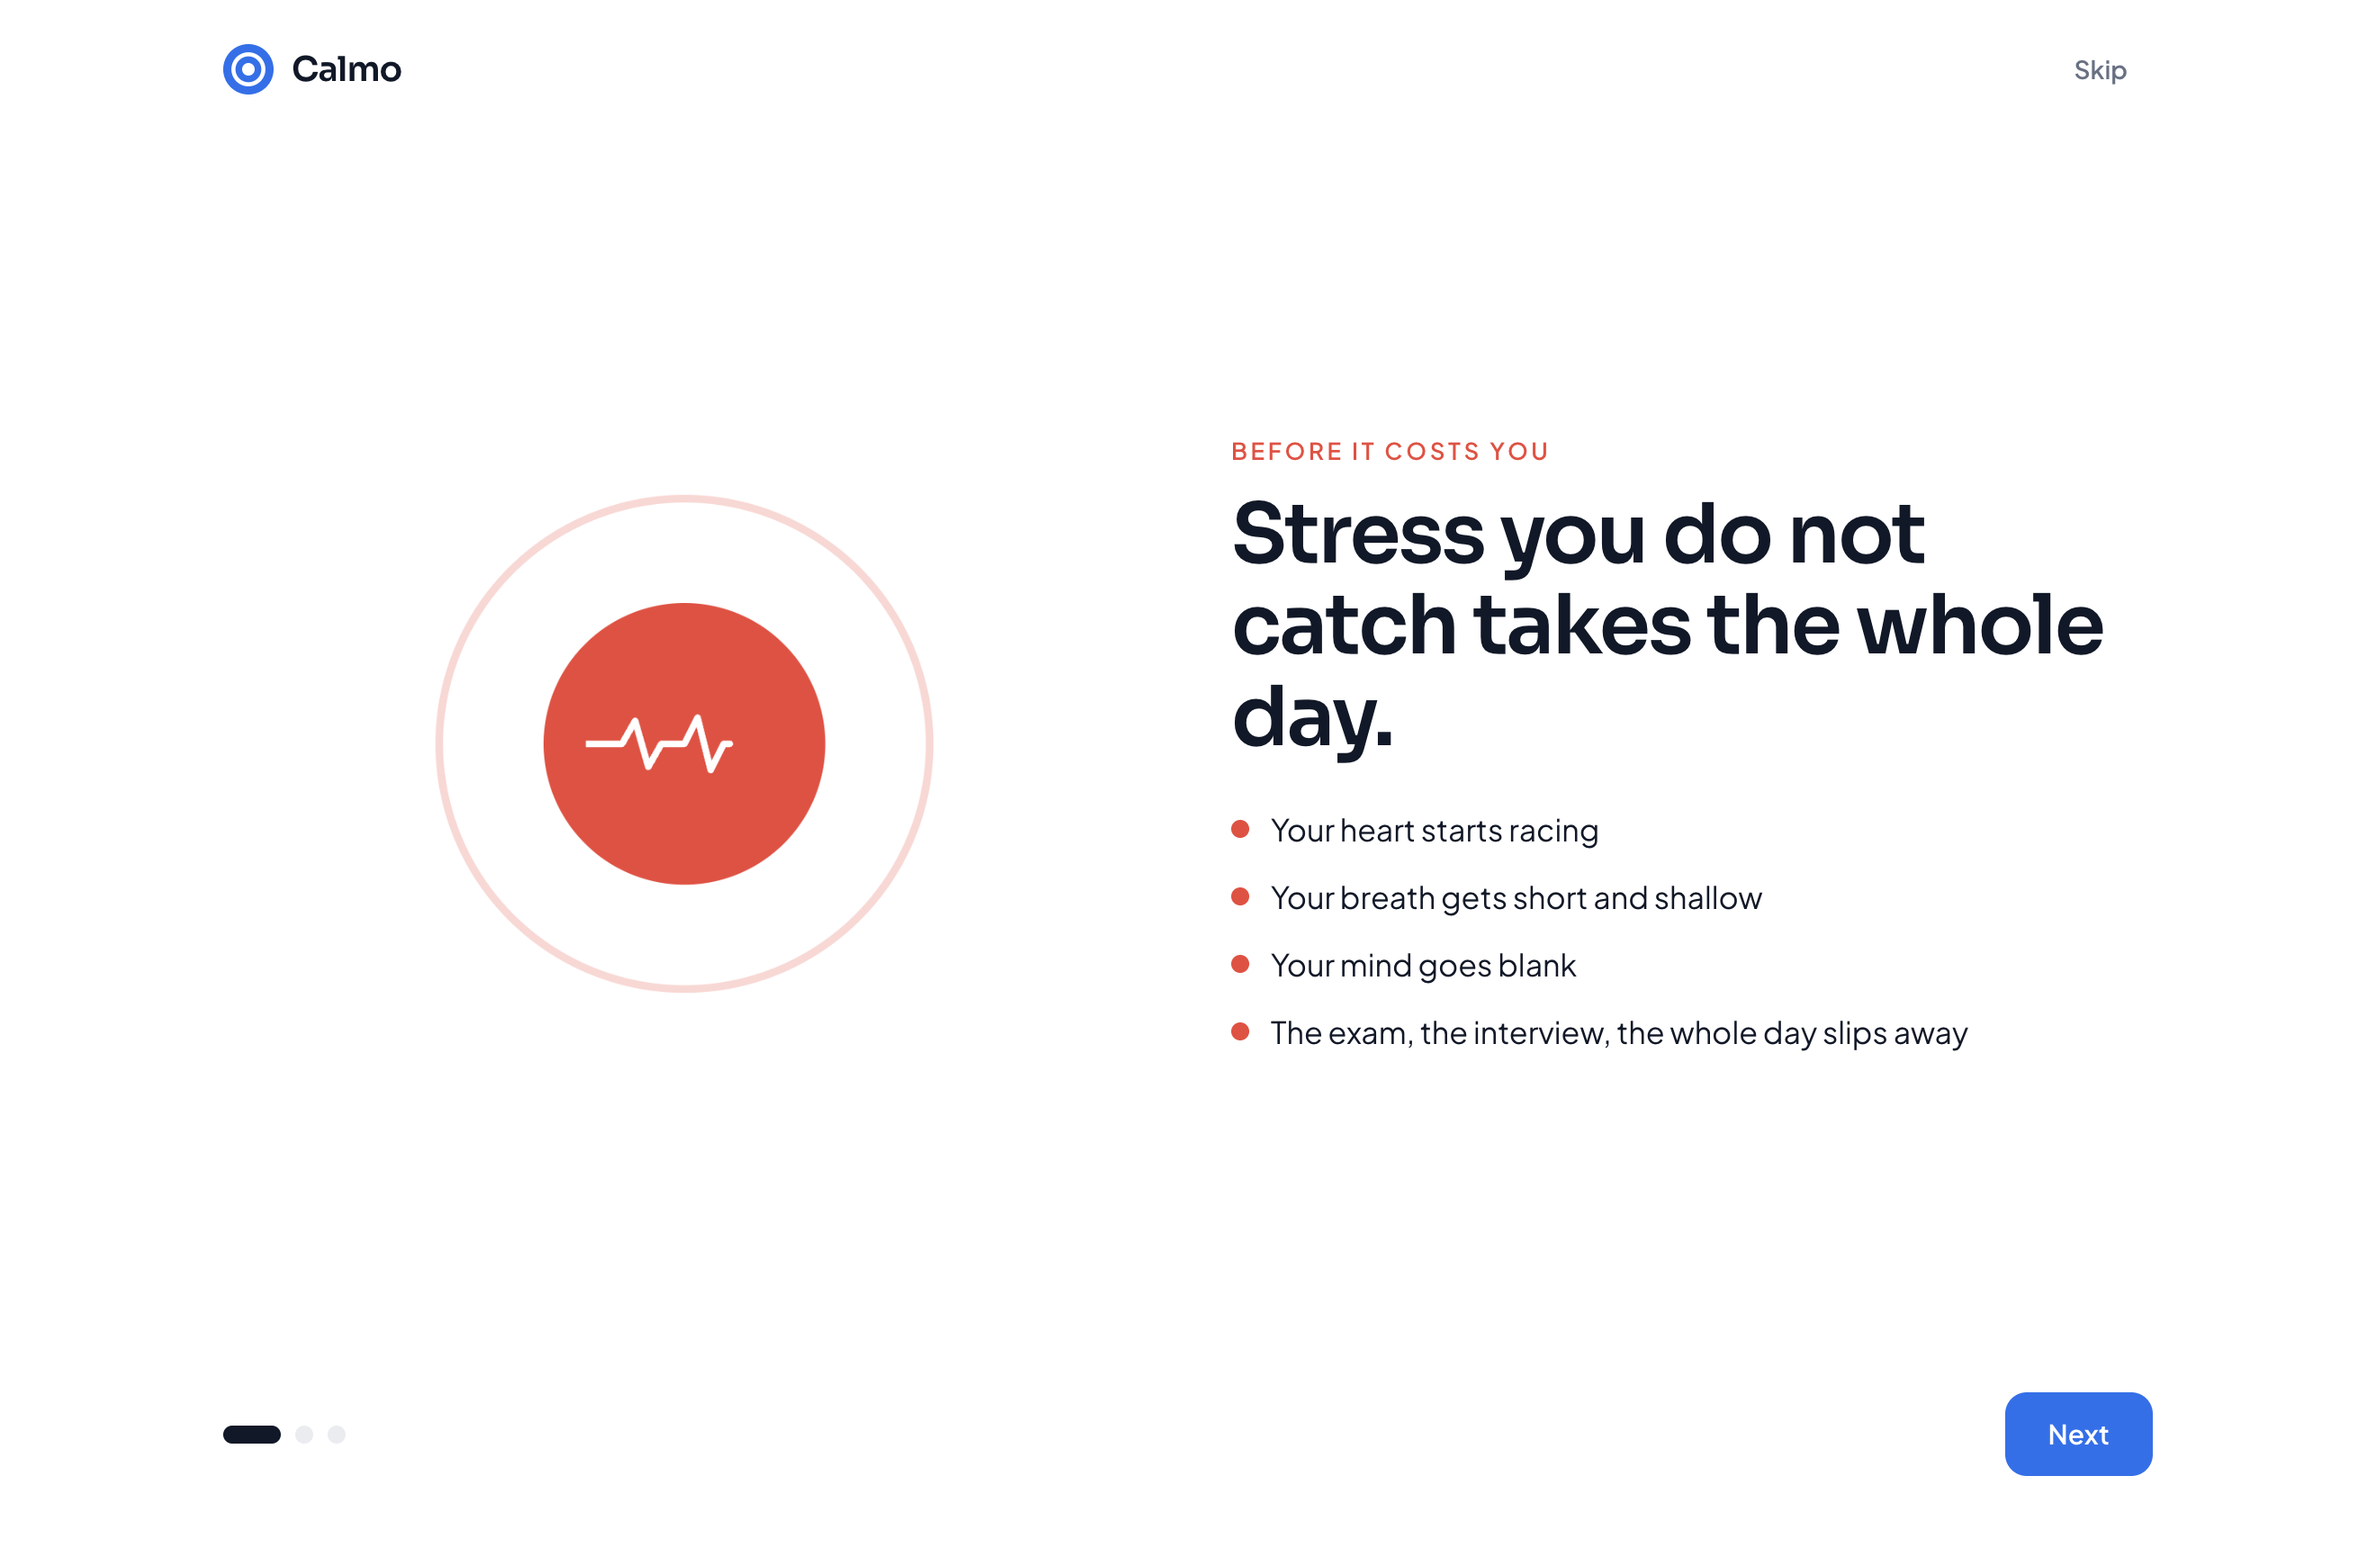
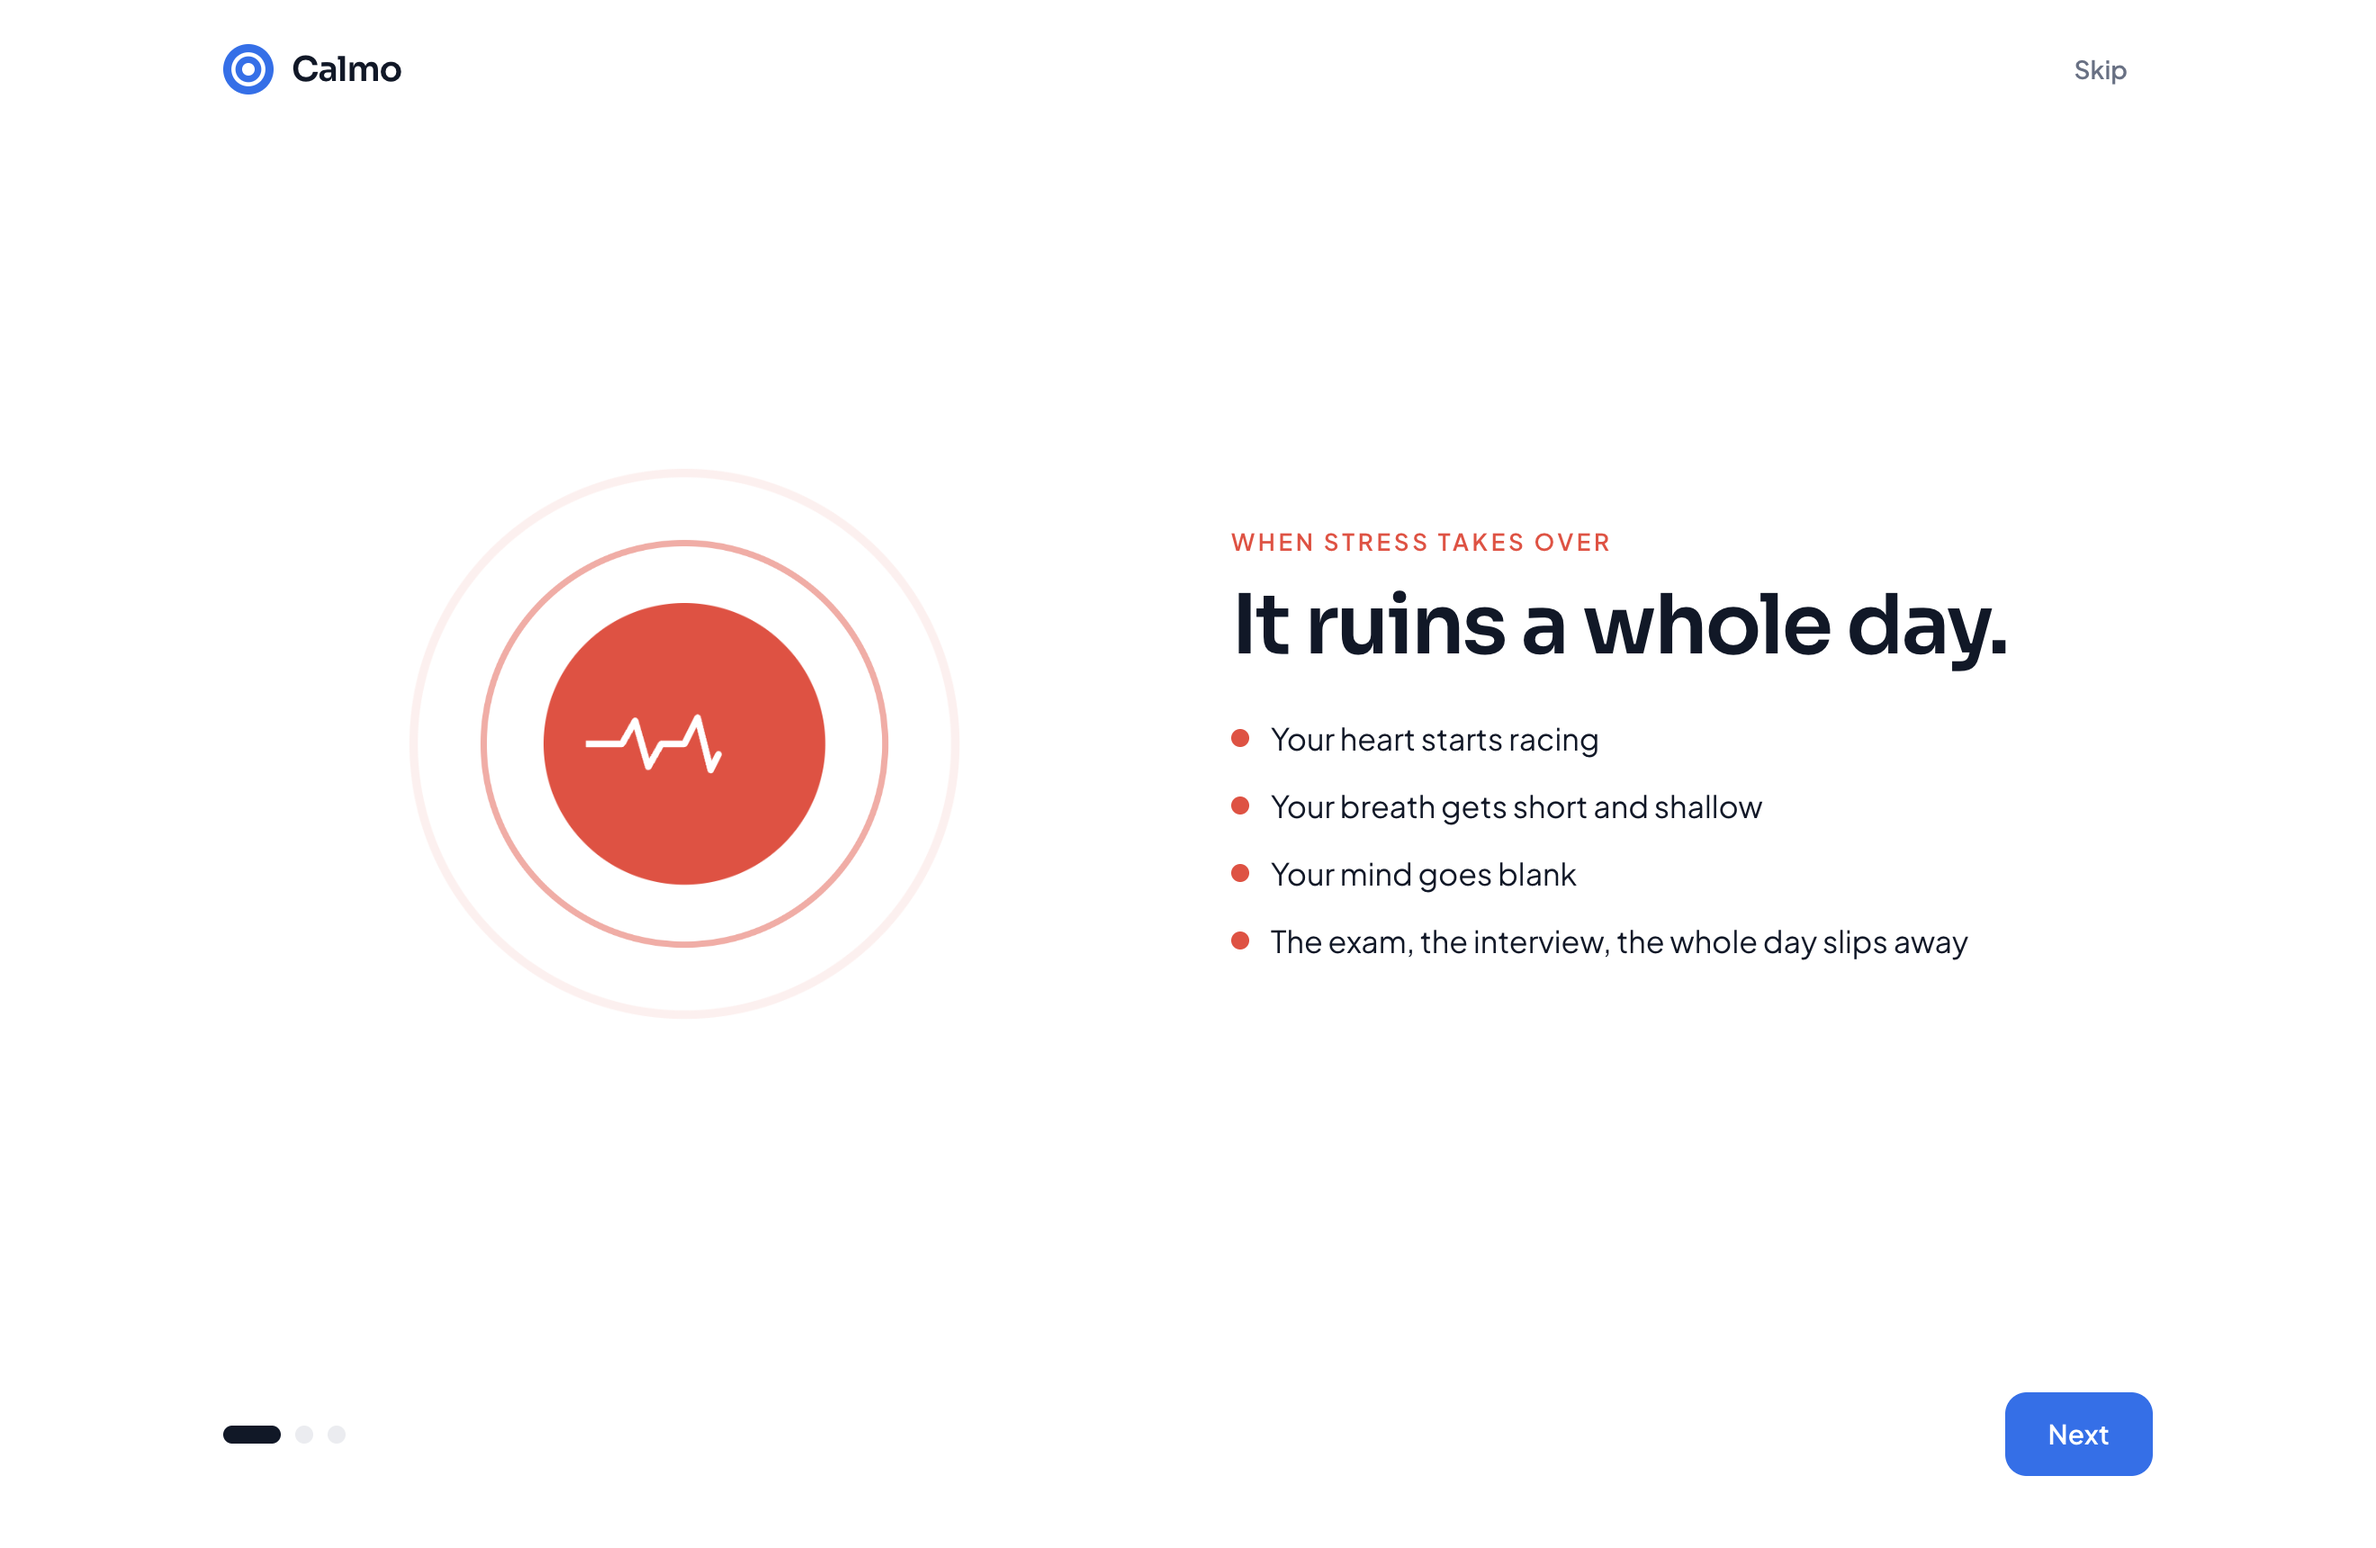
Onboarding: It ruins a whole day

Changed region(s): [[0.497, 0.2773, 0.9008, 0.493], [0.497, 0.5238, 0.8386, 0.6779], [0.1864, 0.3081, 0.4038, 0.6471]]

diff --git a/src/routes/welcome.tsx b/src/routes/welcome.tsx
@@ -83,8 +83,8 @@ interface Step {
 
 const STEPS: Step[] = [
   {
-    eyebrow: 'Before it costs you',
-    title: 'Stress you do not catch takes the whole day.',
+    eyebrow: 'When stress takes over',
+    title: 'It ruins a whole day.',
     accent: 'text-red',
     art: <StressArt />,
     body: (
